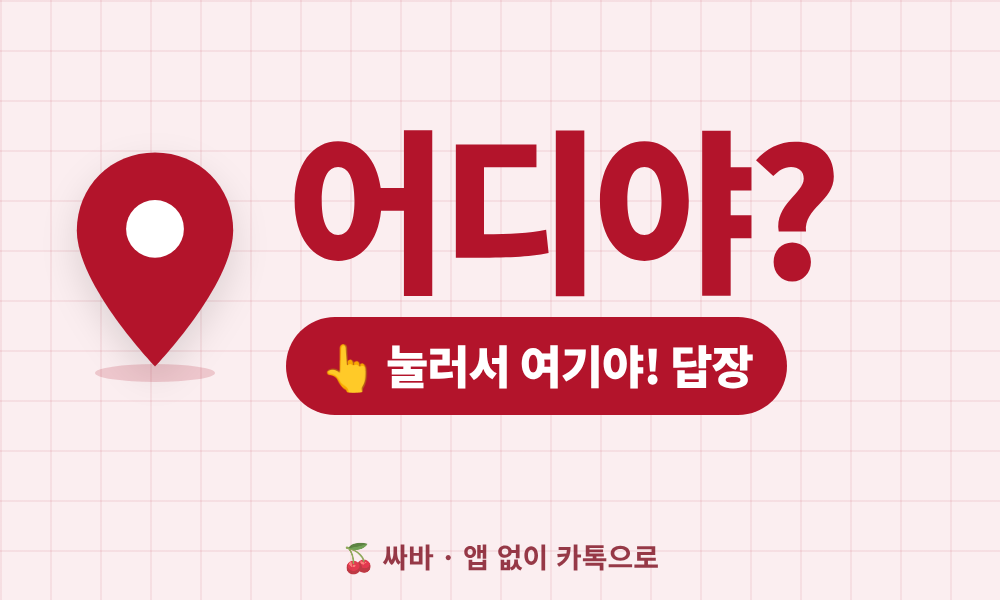
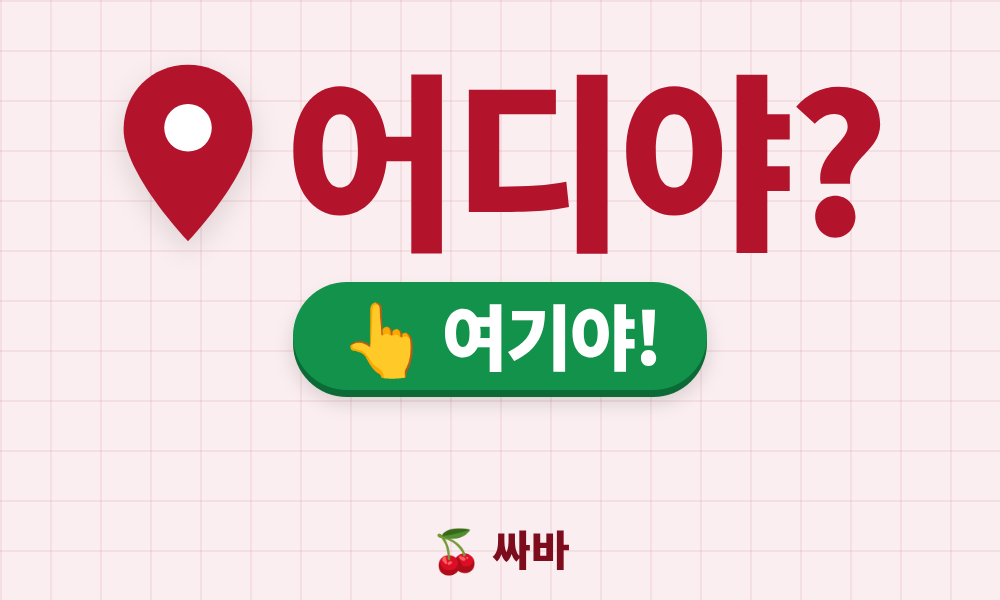
어디야 카톡: 어디야? 주인공 + 초록 여기야! 알약, 제목 한 줄, 버튼 없음
Claude-Session: https://claude.ai/code/session_01Q9nWZoJjakgUt7PhukGEoe

Changed region(s): [[0.062, 0.09, 0.899, 0.69], [0.341, 0.87, 0.651, 0.96]]

diff --git a/eodiya/index.html b/eodiya/index.html
@@ -299,8 +299,8 @@
   function shareKakao(title, desc, url) {
     var play = /놀자/.test(title);
     var isHere = !play && /여기/.test(title);
-    var img = IMG_BASE + (play ? 'eodiya-play.png?v=4' : isHere ? 'eodiya-here.png?v=5' : 'eodiya-ask.png?v=5');
-    window.SsakaShare({ title: title, description: desc, imageUrl: img, imageWidth: play ? 800 : 1000, imageHeight: play ? 800 : 600, url: url, buttonTitle: play ? '좋아! 갈게' : /여기/.test(title) ? '지도 보기' : '나의 위치 알리기', installTitle: play ? '싸바 놀자 설치' : '싸바 여기야 설치', installUrl: BASE + '?install=1' });
+    var img = IMG_BASE + (play ? 'eodiya-play.png?v=4' : isHere ? 'eodiya-here.png?v=6' : 'eodiya-ask.png?v=6');
+    window.SsakaShare({ title: title, description: desc, imageUrl: img, imageWidth: play ? 800 : 1000, imageHeight: play ? 800 : 600, url: url, buttonTitle: play ? '좋아! 갈게' : /여기/.test(title) ? '지도 보기' : '👆 여기야! 답장', installTitle: play ? '싸바 놀자 설치' : '싸바 여기야 설치', noButtons: !play, installUrl: BASE + '?install=1' });
   }
   function shareSms(title, desc, url, phone) {
     var body = title + (desc ? '\n' + desc : '') + '\n' + url;
@@ -354,7 +354,7 @@
       if (card.phone) { location.href = sms(card.phone, title + (o.desc ? '\n' + o.desc : '') + '\n' + url); return; }
       var wide = /eodiya-(ask|here)\.png/.test(o.img);
       window.SsakaShare({ title: title, description: o.desc || '', imageUrl: IMG_BASE + o.img, imageWidth: wide ? 1000 : 800, imageHeight: wide ? 600 : 800, url: url,
-        buttonTitle: o.btn || '열어 보기', installTitle: '싸바 설치하기', installUrl: BASE + '?install=1' });
+        buttonTitle: o.btn || '열어 보기', installTitle: '싸바 설치하기', noButtons: wide, installUrl: BASE + '?install=1' });
     }
     if (window.SsakaInstall) { SsakaInstall.chip($('viewAsk'), '나도 싸바 설치하기'); SsakaInstall.chip($('viewCome'), '나도 싸바 설치하기'); SsakaInstall.chip($('viewPlay'), '나도 싸바 설치하기'); }
 
@@ -447,14 +447,14 @@
         toast('위치를 확인하는 중…');
         getPos().then(function (pos) {
           var back = BASE + '?d=' + SsakaCodec.encode({ m: 'come', here: 1, t: Date.now(), from: myName(), place: { name: '', lat: pos.lat, lng: pos.lng } });
-          reply({ title: '여기야!', desc: '사진을 누르면 지도가 열려요', img: 'eodiya-here.png?v=5', btn: '지도 보기', url: back });
+          reply({ title: '여기야!', desc: '', img: 'eodiya-here.png?v=6', btn: '지도 보기', url: back });
         }, function (e) { toast(e.message + ' — 아래에 직접 써서 보낼 수 있어요'); $('hereText').focus(); });
       });
       $('hereSend').addEventListener('click', function () {
         var t = $('hereText').value.trim();
         if (!t) { toast('어디인지 적어주세요'); $('hereText').focus(); return; }
         var back = BASE + '?d=' + SsakaCodec.encode({ m: 'come', here: 1, t: Date.now(), from: myName(), place: { name: t } });
-        reply({ title: '여기야!', desc: '📍 ' + t + ' · 사진을 누르면 지도가 열려요', img: 'eodiya-here.png?v=5', btn: '지도 보기', url: back });
+        reply({ title: '여기야!', desc: '📍 ' + t, img: 'eodiya-here.png?v=6', btn: '지도 보기', url: back });
       });
       playSound(card.sound || 'where');
     }
@@ -564,7 +564,7 @@
     var url = BASE + '?d=' + SsakaCodec.encode(d);
     var nim = from ? from + '님이 ' : '';
     var title = mode === 'come' ? (gpsNow ? (from ? nim + '여기 있대요' : '여기야!') : (from ? nim + '여기서 만나재요' : '여기서 만나!')) : (from ? nim + '어디냐고 물어요' : '어디야?');
-    var desc = mode === 'come' ? ((d.place.name || (gpsNow ? '사진을 누르면 지도가 열려요' : '만날 곳')) + (d.at && !gpsNow ? ' · ' + clockText(d.at) : '')) : '사진을 누르면 바로 답장돼요';
+    var desc = mode === 'come' ? ((d.place.name || (gpsNow ? '' : '만날 곳')) + (d.at && !gpsNow ? ' · ' + clockText(d.at) : '')) : '';
     return { url: url, title: title, desc: desc, phone: phone };
   }
   $('sendKakao').addEventListener('click', function () { var b = build(); if (b) shareKakao(b.title, b.desc, b.url); });

diff --git a/js/install.js b/js/install.js
@@ -123,7 +123,7 @@
     try { navigator.serviceWorker.register(SELF.replace(/js\/install\.js.*$/, 'sw.js')).catch(function () {}); } catch (e) {}
   }
   // ---------- 최신 버전 업데이트 ----------
-  var VER = '2026.11.09-29'; // 올릴 때마다 version.json 과 같이 올림
+  var VER = '2026.11.09-30'; // 올릴 때마다 version.json 과 같이 올림
   var BASE_DIR = SELF ? SELF.replace(/js\/install\.js.*$/, '') : '/';
   var CORE = ['js/install.js', 'js/share.js', 'js/designs.js', 'js/render.js', 'js/export.js', 'js/codec.js', 'js/store.js', 'demo/js/card.js', 'css/sk.css', 'css/brand.css', 'sw.js', 'app/', 'make/', 'eodiya/', 'c/'];
   // 휴대폰 브라우저가 묵혀 둔 파일을 서버의 새 파일로 바꿔 둠 (화면은 그대로)

diff --git a/js/share.js b/js/share.js
@@ -74,6 +74,12 @@
         link: { mobileWebUrl: c.url, webUrl: c.url }
       };
       if (c.imageWidth && c.imageHeight) { content.imageWidth = c.imageWidth; content.imageHeight = c.imageHeight; }
+      if (!c.description) delete content.description;
+      // 버튼 없이: 말풍선 전체를 누르면 열림 (카톡이 기본 버튼을 붙이면 buttonTitle 이 이름이 됨)
+      if (extra && extra.noButtons) {
+        Kakao.Share.sendDefault({ objectType: 'feed', content: content, buttonTitle: extra.buttonTitle || '열어 보기' });
+        return;
+      }
       Kakao.Share.sendDefault({
         objectType: 'feed',
         content: content,

diff --git a/sw.js b/sw.js
@@ -1,5 +1,5 @@
 /* 싸바 서비스워커 — 새 파일을 먼저 받고(network-first), 인터넷이 약하면 저장해 둔 화면을 보여줌 */
-var CACHE = 'sava-v14';
+var CACHE = 'sava-v15';
 var SHELL = ['./', './app/', './eodiya/', './lucky/', './shoot/', './fly/', './pool/', './make/', './c/', './css/brand.css', './css/sk.css', './css/sk-world.css',
   './js/codec.js', './js/store.js', './js/designs.js', './js/render.js', './js/share.js', './js/install.js', './js/sound.js',
   './img/icon-192.png?v=2', './img/cherry.svg', './img/cherry-dance-anim.svg', './manifest.webmanifest'];
